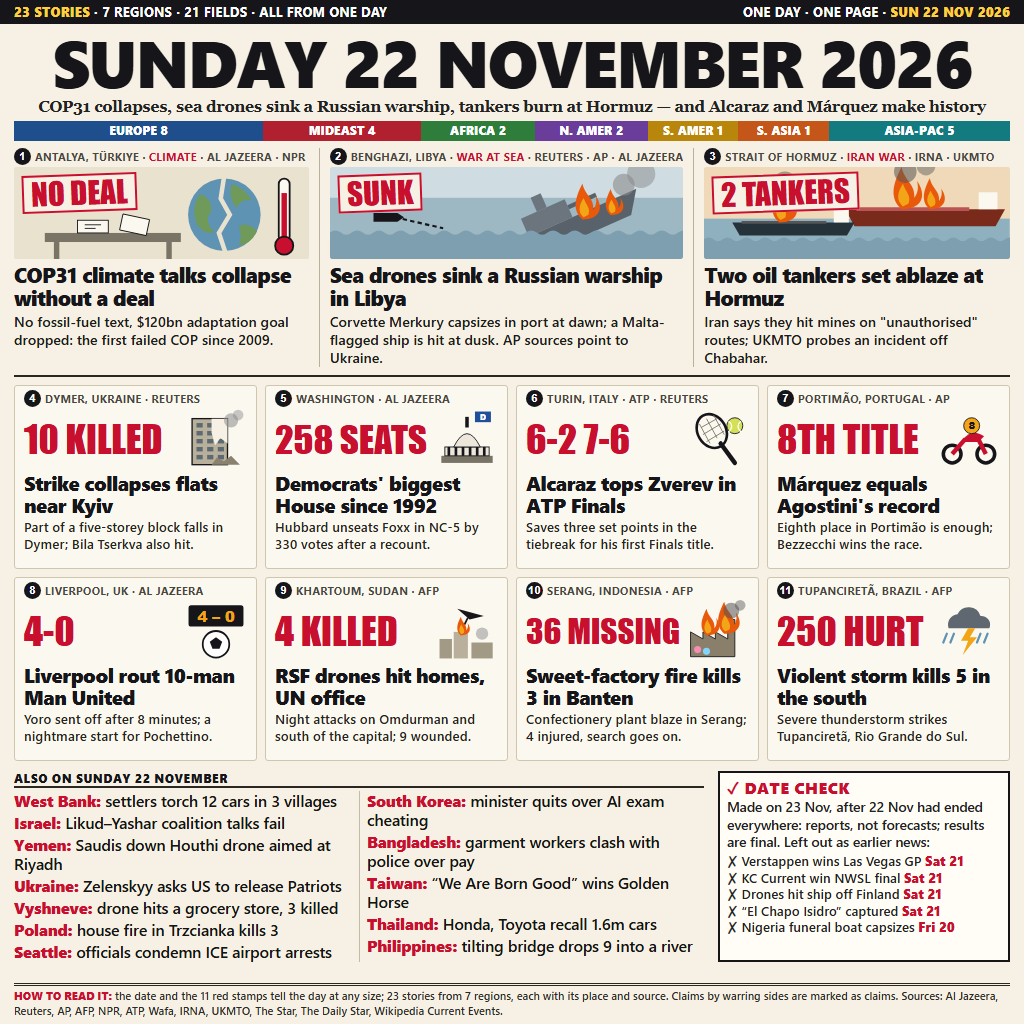
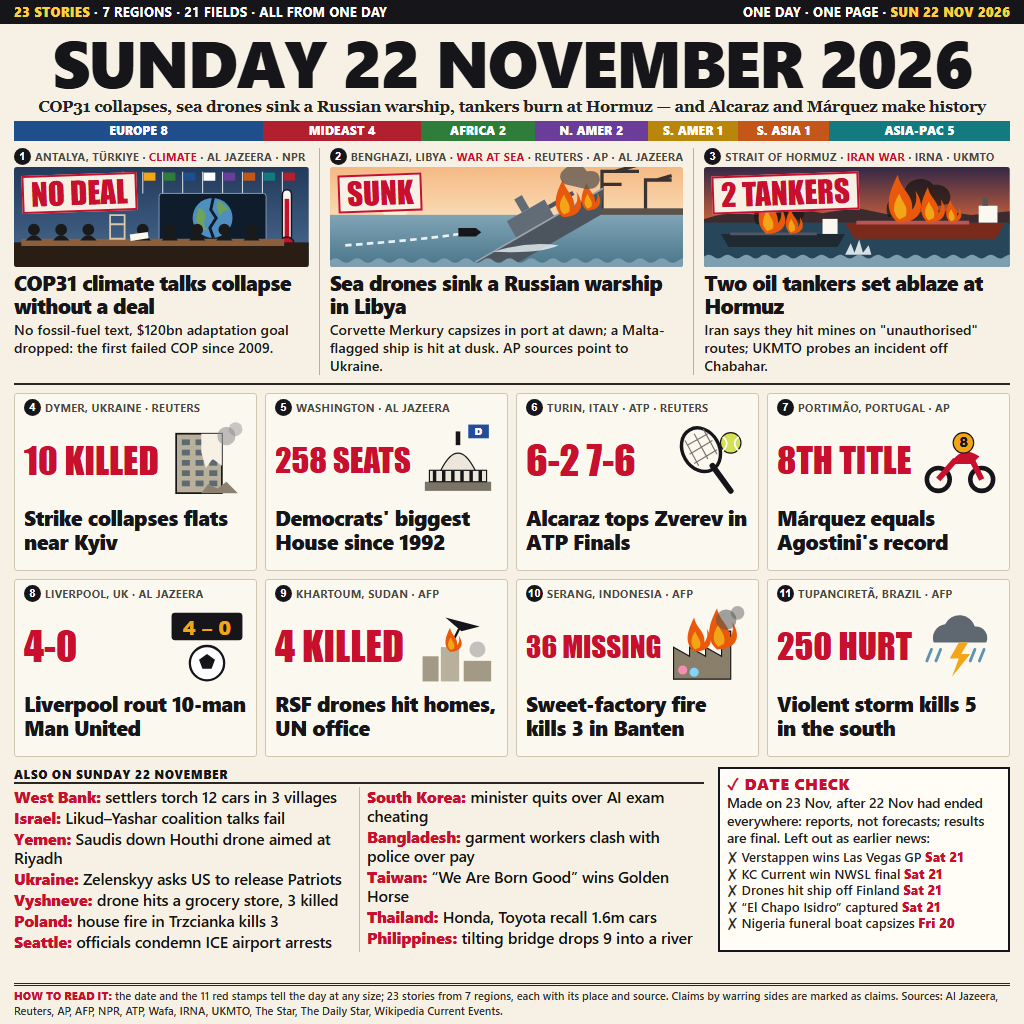
v4 cards with richer lead scenes: plenary hall, Benghazi dawn, Hormuz dusk

Changed region(s): [[0.0, 0.1562, 1.0, 0.9375]]

diff --git a/src/page.html b/src/page.html
@@ -22,7 +22,7 @@
   .label { font:700 11px/13px "Segoe UI", Arial; color:var(--muted); text-transform:uppercase; letter-spacing:.3px;
     white-space:nowrap; overflow:hidden; }
   .label i { font-style:normal; color:var(--red); }
-  .lead .pic { position:relative; height:92px; margin-top:2px; background:#e4ddca; border-radius:3px; overflow:hidden; }
+  .lead .pic { position:relative; height:100px; margin-top:2px; background:#e4ddca; border-radius:3px; overflow:hidden; }
   .lead .pic svg { position:absolute; inset:0; width:100%; height:100%; }
   .stamp { font-family:Impact, "Arial Narrow Bold", sans-serif; color:var(--red); line-height:1; white-space:nowrap; }
   .lead .stamp { position:absolute; left:8px; top:7px; font-size:31px; background:var(--paper); padding:2px 7px 1px;
@@ -33,12 +33,11 @@
   .lead p { font:600 14.2px/1.27 "Segoe UI", Arial; margin-top:3px; color:#1d1c19; }
   .cards { display:grid; grid-template-columns:repeat(4,1fr); gap:8px; padding:8px 14px 0; border-top:0; }
   .cardrow-rule { margin:8px 14px 0; border-top:2px solid var(--rule); }
-  .card { background:#fbf8f0; border:1px solid #cfc6b0; border-radius:3px; padding:4px 9px 5px; height:184px; overflow:hidden; }
-  .card .pic { display:flex; align-items:center; justify-content:space-between; height:62px; margin-top:1px; }
-  .card .stamp { font-size:38px; }
+  .card { background:#fbf8f0; border:1px solid #cfc6b0; border-radius:3px; padding:5px 9px 6px; height:178px; overflow:hidden; }
+  .card .pic { display:flex; align-items:center; justify-content:space-between; height:84px; margin-top:2px; }
+  .card .stamp { font-size:40px; }
   .card svg { flex:none; }
-  .card h3 { font:800 20px/1.1 "Segoe UI", Arial; margin-top:2px; letter-spacing:-.4px; }
-  .card p { font:600 13.4px/1.24 "Segoe UI", Arial; margin-top:3px; color:#26241f; }
+  .card h3 { font:800 21px/1.12 "Segoe UI", Arial; margin-top:4px; letter-spacing:-.4px; }
   .bottom { display:grid; grid-template-columns:1fr 292px; gap:14px; padding:10px 14px 0; }
   .mapbox h4, .briefs h4 { font:800 12px/15px "Segoe UI", Arial; letter-spacing:.6px; border-bottom:2px solid var(--rule);
     margin-bottom:3px; }
@@ -47,7 +46,7 @@
   .check b.t { font:800 12px/15px "Segoe UI", Arial; letter-spacing:.5px; color:var(--red); }
   .check p { font:600 11px/1.28 "Segoe UI", Arial; color:#222; }
   .briefs .cols { columns:2; column-gap:16px; column-rule:1px solid #c4bba5; }
-  .briefs li { list-style:none; font:600 15.6px/1.22 "Segoe UI", Arial; break-inside:avoid; margin-bottom:3px; color:#141412; }
+  .briefs li { list-style:none; font:600 15.6px/1.22 "Segoe UI", Arial; break-inside:avoid; margin-bottom:2px; color:#141412; }
   .check { margin-top:0; }
   .check p { font:600 13.6px/1.27 "Segoe UI", Arial; }
   .check ul { margin-top:3px; }
@@ -158,28 +157,48 @@ const flame = (x, y, s = 1) => `<g transform="translate(${x},${y}) scale(${s})">
   <path d="M1 -2 C-4 -6 -3 -12 1 -18 C3 -12 7 -10 5 -4Z" fill="${Y}"/></g>`;
 const waves = (w, y) => `<path d="M0 ${y} ${Array.from({length: Math.ceil(w / 20)}, (_, i) => `q5 -4 10 0 t10 0`).join(' ')} V200 H0Z" fill="#7d9fb0"/>`;
 const PICS = {
+  // COP31: the plenary hall in Antalya, an empty chair at the table, the planet cracked on the big screen
   cop: (w, h) => `<svg width="${w}" height="${h}" viewBox="0 0 325 112">
-    <rect width="325" height="112" fill="#e9e2cf"/>
-    <circle cx="232" cy="58" r="40" fill="#5f93b3"/><path d="M205 35 q15 6 12 20 q-8 10 4 22 q-12 4 -20 -10 q-6 -16 4 -32Z M240 24 q14 4 22 18 q-12 -2 -16 8 q-10 -8 -6 -26Z M248 70 q12 -4 20 6 q-6 14 -20 16 q4 -10 0 -22Z" fill="#6f9a5a"/>
-    <path d="M232 14 L228 40 L238 58 L226 78 L234 102" stroke="#e9e2cf" stroke-width="5" fill="none"/>
-    <rect x="292" y="18" width="12" height="70" rx="6" fill="${W}" stroke="${K}" stroke-width="2"/><rect x="295" y="34" width="6" height="52" fill="${R}"/><circle cx="298" cy="92" r="10" fill="${R}" stroke="${K}" stroke-width="2"/>
-    <rect x="34" y="78" width="150" height="10" fill="${G}"/><rect x="44" y="88" width="6" height="22" fill="${G}"/><rect x="168" y="88" width="6" height="22" fill="${G}"/>
-    <rect x="70" y="64" width="34" height="14" fill="${W}" stroke="${K}"/><path d="M78 69h18M78 73h12" stroke="${K}"/>
-    <rect x="118" y="60" width="30" height="18" fill="${W}" stroke="${K}" transform="rotate(12 133 69)"/></svg>`,
+    <defs><linearGradient id="hall" x1="0" y1="0" x2="0" y2="1"><stop offset="0" stop-color="#22395a"/><stop offset="1" stop-color="#4a6d93"/></linearGradient></defs>
+    <rect width="325" height="112" fill="url(#hall)"/>
+    ${['#c8102e','#f2a516','#2f7d3b','#1f4e8c','#fff','#6a3d9a','#c4561a','#137a80','#b0202f'].map((c, i) =>
+      `<path d="M${120 + i * 22} 6 v24" stroke="#cfd6de" stroke-width="1.2"/><rect x="${121 + i * 22}" y="7" width="13" height="9" fill="${c}"/>`).join('')}
+    <rect x="160" y="30" width="118" height="54" rx="3" fill="#0f1c2c" stroke="#8aa0b8"/>
+    <circle cx="219" cy="57" r="22" fill="#4f8fbf"/><path d="M204 46 q9 3 7 12 q-4 6 2 12 q-8 2 -11 -6 q-3 -9 2 -18Z M224 38 q9 3 13 11 q-7 -1 -9 5 q-6 -5 -4 -16Z" fill="#6fa35a"/>
+    <path d="M220 34 l-3 14 l6 9 l-7 11 l4 11" stroke="#0f1c2c" stroke-width="3.2" fill="none"/>
+    <rect x="296" y="26" width="10" height="56" rx="5" fill="${W}" stroke="${K}" stroke-width="1.6"/><rect x="298.5" y="36" width="5" height="44" fill="${R}"/><circle cx="301" cy="86" r="8" fill="${R}" stroke="${K}" stroke-width="1.6"/>
+    <rect x="0" y="84" width="325" height="28" fill="#2a1d14"/><rect x="8" y="80" width="290" height="8" fill="#8b5e3c"/>
+    ${[22, 52, 82, 142, 172, 202, 232, 262].map(x => `<circle cx="${x}" cy="70" r="6.5" fill="#1a1a1a"/><path d="M${x - 9} 82 q9 -12 18 0Z" fill="#1a1a1a"/>`).join('')}
+    <path d="M106 64 h16 v16 h-16Z M106 64 v-10 h16 v10" fill="none" stroke="#d8c7a8" stroke-width="2"/>
+    <rect x="128" y="74" width="20" height="7" fill="${W}" transform="rotate(-8 138 77)"/></svg>`,
+  // Benghazi at dawn: harbour cranes, a sea drone's wake, the corvette rolling over by the quay
   warship: (w, h) => `<svg width="${w}" height="${h}" viewBox="0 0 325 112">
-    <rect width="325" height="112" fill="#cfdde3"/><rect x="0" y="42" width="325" height="70" fill="#9db7c3"/>
-    <g transform="rotate(-24 210 70)"><path d="M140 66 H290 L276 86 H152Z" fill="#59626b"/><rect x="182" y="48" width="44" height="18" fill="#6c757d"/><rect x="198" y="34" width="10" height="14" fill="#6c757d"/><path d="M226 56 h28" stroke="#59626b" stroke-width="4"/></g>
-    ${waves(325, 74)}
-    <path d="M60 60 L104 70" stroke="${K}" stroke-width="2" stroke-dasharray="4 3"/><path d="M40 56 h22 l6 4 -6 4 h-22Z" fill="${K}"/>
-    ${flame(232, 62, 1.1)}${flame(258, 58, .8)}
-    <circle cx="270" cy="30" r="10" fill="#8a8a8a" opacity=".6"/><circle cx="286" cy="20" r="13" fill="#8a8a8a" opacity=".5"/></svg>`,
+    <defs><linearGradient id="dawn" x1="0" y1="0" x2="0" y2="1"><stop offset="0" stop-color="#f3b27a"/><stop offset=".6" stop-color="#fbe3c0"/></linearGradient>
+      <linearGradient id="bay" x1="0" y1="0" x2="0" y2="1"><stop offset="0" stop-color="#7fa4b6"/><stop offset="1" stop-color="#3f6b80"/></linearGradient></defs>
+    <rect width="325" height="112" fill="url(#dawn)"/><circle cx="60" cy="44" r="14" fill="#fff3d6"/>
+    <path d="M250 50 v-36 h34 M262 14 l22 -6 M250 26 l18 0" stroke="#3a3330" stroke-width="3" fill="none"/><path d="M290 50 v-28 h24 M300 22 l14 -4" stroke="#3a3330" stroke-width="3" fill="none"/>
+    <rect x="236" y="48" width="89" height="8" fill="#5b524b"/>
+    <rect y="54" width="325" height="58" fill="url(#bay)"/>
+    <g transform="rotate(-30 196 66)"><path d="M126 62 H262 L248 82 H138Z" fill="#4c555e"/><rect x="170" y="44" width="40" height="18" fill="#626c76"/><rect x="186" y="30" width="8" height="14" fill="#626c76"/><path d="M210 52 h26" stroke="#4c555e" stroke-width="4"/><path d="M126 62 h136" stroke="#9aa3ab" stroke-width="1.5"/></g>
+    <path d="M150 88 q30 -10 60 -6 q-16 8 -60 6Z" fill="#e8f1f5" opacity=".8"/>
+    ${flame(214, 56, 1.15)}${flame(236, 50, .85)}
+    <path d="M216 26 q-10 -8 2 -16 q12 -6 18 4 q12 -2 12 8 q-2 10 -14 8Z" fill="#5a5552" opacity=".75"/>
+    <path d="M14 82 q30 -2 70 -6 q20 -2 46 -6" stroke="#e8f1f5" stroke-width="2.5" fill="none" stroke-dasharray="6 4"/>
+    <path d="M118 66 h16 l5 4 -5 4 h-16Z" fill="${K}"/>
+    ${waves(325, 96)}</svg>`,
+  // Strait of Hormuz at dusk: two tankers burning, the Iranian coast behind, a mine's blast in the water
   tankers: (w, h) => `<svg width="${w}" height="${h}" viewBox="0 0 325 112">
-    <rect width="325" height="112" fill="#efd9b8"/><rect y="62" width="325" height="50" fill="#8fb1bf"/>
-    <path d="M150 52 h170 l-10 18 h-150Z" fill="#7a2a1a"/><rect x="292" y="34" width="20" height="18" fill="${W}"/><path d="M162 52 h120" stroke="#b55" stroke-width="4"/>
-    <path d="M30 66 h130 l-8 14 h-114Z" fill="#26323a"/><rect x="138" y="50" width="16" height="16" fill="${W}"/><path d="M40 66 h90" stroke="#555" stroke-width="3"/>
-    ${flame(210, 52, 1.5)}${flame(240, 52, 1.1)}${flame(80, 66, 1.3)}
-    <circle cx="214" cy="12" r="12" fill="#555" opacity=".55"/><circle cx="236" cy="6" r="10" fill="#555" opacity=".45"/><circle cx="86" cy="24" r="12" fill="#555" opacity=".5"/>
-    ${waves(325, 84)}</svg>`,
+    <defs><linearGradient id="dusk" x1="0" y1="0" x2="0" y2="1"><stop offset="0" stop-color="#2d2547"/><stop offset=".55" stop-color="#c9603a"/><stop offset="1" stop-color="#f0a35e"/></linearGradient></defs>
+    <rect width="325" height="112" fill="url(#dusk)"/>
+    <path d="M0 58 l30 -8 l26 4 l30 -10 l40 8 l34 -6 l44 9 l40 -7 l40 6 l41 -4 V64 H0Z" fill="#3b2b2e"/>
+    <rect y="62" width="325" height="50" fill="#27465a"/>
+    <path d="M196 56 c-6 -14 4 -26 18 -30 c4 -12 22 -14 30 -4 c14 -2 22 10 16 20" fill="#1b1716" opacity=".75"/>
+    <path d="M56 64 c-8 -12 2 -24 14 -26 c6 -10 22 -8 26 2 c10 0 14 10 8 18" fill="#1b1716" opacity=".7"/>
+    <path d="M150 62 h170 l-10 17 h-150Z" fill="#7a2a1a"/><rect x="292" y="44" width="20" height="18" fill="${W}"/><rect x="296" y="36" width="6" height="8" fill="#555"/><path d="M162 62 h120" stroke="#b55" stroke-width="4"/>
+    <path d="M18 74 h132 l-8 14 h-116Z" fill="#1d2a32"/><rect x="126" y="58" width="16" height="16" fill="${W}"/><path d="M28 74 h92" stroke="#556" stroke-width="3"/>
+    ${flame(206, 62, 1.7)}${flame(238, 62, 1.25)}${flame(262, 62, .8)}${flame(66, 74, 1.4)}${flame(92, 74, .9)}
+    <path d="M150 96 l6 -12 l4 10 l5 -14 l4 14 l6 -8 l3 10Z" fill="#e8f1f5" opacity=".9"/>
+    ${waves(325, 98)}</svg>`,
   flats: (s) => `<svg width="${s}" height="${s}" viewBox="0 0 70 70">
     <rect x="8" y="12" width="40" height="52" fill="#b9b09b" stroke="${K}" stroke-width="1.5"/>
     ${[0,1,2,3,4].map(r => [0,1,2].map(c => `<rect x="${13 + c * 12}" y="${17 + r * 9}" width="7" height="5" fill="#5d6a73"/>`).join('')).join('')}
@@ -237,15 +256,14 @@ document.querySelectorAll('.lead .pic svg').forEach(svg => svg.setAttribute('pre
 document.getElementById('cards').innerHTML = CARDS.map(s => `
   <article class="card">
     <div class="label"><span class="num">${s.n}</span>${s.place} · ${s.src}</div>
-    <div class="pic"><div class="stamp">${s.stamp}</div>${PICS[s.pic](62)}</div>
+    <div class="pic"><div class="stamp">${s.stamp}</div>${PICS[s.pic](80)}</div>
     <h3>${s.head}</h3>
-    <p>${s.body}</p>
   </article>`).join('');
 
 // shrink any card stamp that would run into its picture
 document.querySelectorAll('.card .pic').forEach(p => {
-  const st = p.querySelector('.stamp'); let size = 38;
-  while (st.offsetWidth > p.clientWidth - 68 && size > 24) st.style.fontSize = (--size) + 'px';
+  const st = p.querySelector('.stamp'); let size = 40;
+  while (st.offsetWidth > p.clientWidth - 86 && size > 24) st.style.fontSize = (--size) + 'px';
 });
 
 document.getElementById('briefs').innerHTML =
